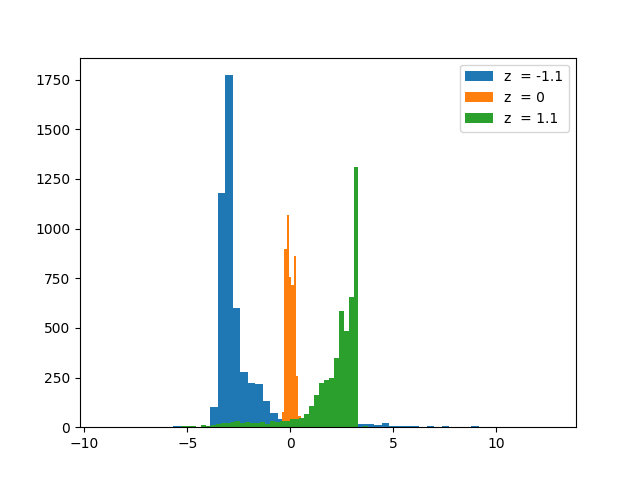
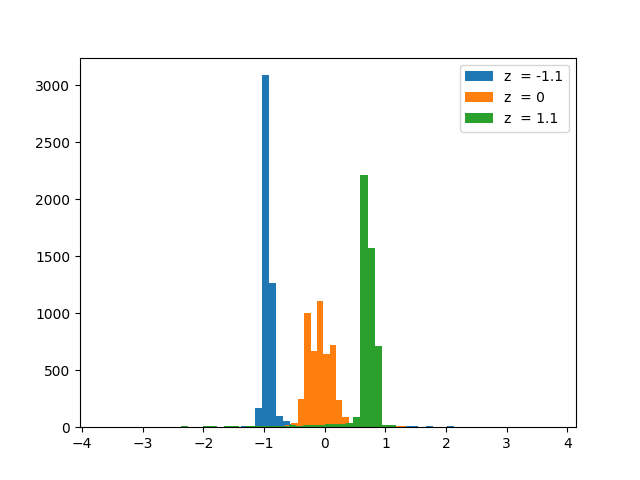
generic commit

diff --git a/scripts/transport/c_transport.py b/scripts/transport/c_transport.py
@@ -354,9 +354,6 @@ def conditional_gen(trained_models, ref_sample, cond_sample):
     return X
 
 
-
-
-
 def conditional_transport_exp(ref_gen, target_gen, N = 1000, n_iter = 1001, slice_vals = [],
                               exp_name= 'exp', plt_range = None, process_funcs = []):
     save_dir = f'../../data/kernel_transport/{exp_name}'
@@ -380,7 +377,7 @@ def conditional_transport_exp(ref_gen, target_gen, N = 1000, n_iter = 1001, slic
         for slice_val in slice_vals:
             ref_slice_sample = torch.full([N],  slice_val, device = trained_models[0].device)
             slice_sample = conditional_gen([trained_models[-1]], ref_gen(N), ref_slice_sample)
-            plt.hist(slice_sample[:, 1].detach().cpu().numpy(), label = f'z  = {slice_val}', bins = 60)
+            plt.hist(slice_sample[:, 1].detach().cpu().numpy(), label = f'z  = {slice_val}', bins = 60, range=[-1.5,1.5])
         plt.legend()
         plt.savefig(f'{save_dir}/conditional_hists.png')
         clear_plt()
@@ -405,7 +402,7 @@ def run():
     range = [[-2.5,2.5],[-1.1,1.1]]
     #process_funcs = [flip_2tensor, flip_2tensor]
     process_funcs = []
-    conditional_transport_exp(ref_gen, target_gen, exp_name= 'mgan_2_CVAE', N = 5000, n_iter = 10000,
+    conditional_transport_exp(ref_gen, target_gen, exp_name= 'mgan2_CVAE', N = 5000, n_iter = 10000,
                               plt_range=range, process_funcs=process_funcs, slice_vals=[-1.1, 0, 1.1])
 
 
